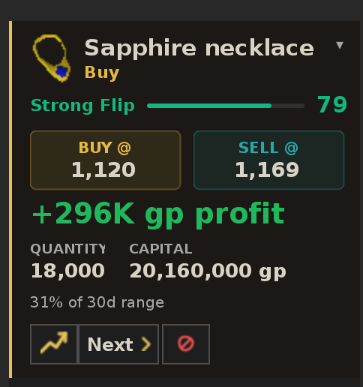
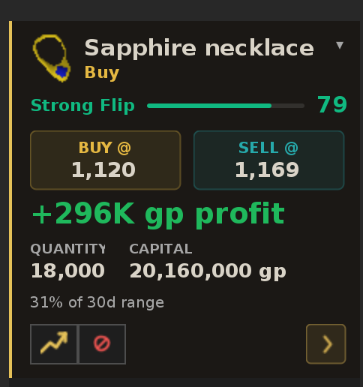
Wear the website's pager on the flip card
The site's Recommended Flip card settled on a pair of small gold-tinted
chevron squares riding the right edge of its bottom row, and it is the
best that card has looked. Ported rather than approximated: .fc-page's
literal values — #C9A64D for the glyph and the rim, the same hue at 12%
behind it, 26% and a brighter glyph under the cursor, 6px corners, a
24px target.

Painted rather than bordered, because Swing's border is square and the
corner radius is most of what makes these read as the site's. The fill
stays translucent so the card's own hover tint shows through instead of
the button punching a flat hole in it.

Next loses its word. It carried one on the argument that the control
you press most should be the easiest to hit, and the website answered
that better: a PAIR of chevrons reads as a pager at a glance, where one
worded button beside one bare arrow reads as two unrelated controls.
The pair is also narrower than the single worded button was.

And the pager moves to the far right of the row, behind a spacer, as it
is on the site — everything left of the gap acts on the item in front
of you, the two chevrons move you off it. That grouping is most of what
makes two arrows read as one control rather than as two more buttons in
a line of five.

The chevrons are drawn, not set as text: the site's ‹ and › are
U+2039/U+203A, and U+203A has already rendered as a stray comma in this
client once. They grew from 7x13 to 9x13 to suit the bigger tile.
[…]

Changed region(s): [[0.2424, 0.8372, 0.5758, 0.9612], [0.8182, 0.8372, 0.9697, 0.9612]]

diff --git a/src/main/java/com/pocketge/tracker/AdvisorPanel.java b/src/main/java/com/pocketge/tracker/AdvisorPanel.java
@@ -107,13 +107,27 @@ public class AdvisorPanel extends PluginPanel
 	private static final int CONTROL_W = 32;
 	private static final int CONTROL_H = 27;
 	/* Sized so the widest row fits the 194px a card has inside a 225px
-	   sidebar: four plain controls and a worded Next, with four gaps —
-	   4 × 32 + 54 + 4 × 2 = 190. */
+	   sidebar: three plain controls, two pager squares, four gaps —
+	   3 × 32 + 2 × 27 + 4 × 2 = 158. */
 	private static final int CONTROL_GAP = 2;
-	private static final int NEXT_BTN_W = 54;
+	/**
+	 * pocketge.com's .fc-page, ported exactly.
+	 *
+	 * The site's flip card ended up with a pair of small gold-tinted chevron
+	 * squares for paging, and it is the best that card has looked — so these
+	 * are its literal values rather than an impression of them: #C9A64D for
+	 * the glyph and the border, the same hue at 12% behind it, 26% and a
+	 * brighter glyph under the cursor, 6px corners, a 24px target.
+	 */
+	private static final Color PAGER_FG = new Color(0xC9, 0xA6, 0x4D);
+	private static final Color PAGER_FG_HOVER = new Color(0xFF, 0xD9, 0x8A);
+	private static final int PAGER_FILL_ALPHA = 31;        // .12
+	private static final int PAGER_FILL_ALPHA_HOVER = 66;  // .26
+	private static final int PAGER_RIM_ALPHA = 115;        // .45
+	private static final int PAGER_RADIUS = 6;
 	private static final Icon CHART_ICON = buildChartIcon(1.45f);
-	private static final Icon NEXT_ICON = buildNextIcon();
-	private static final Icon BACK_ICON = buildBackIcon();
+	/* No NEXT_ICON/BACK_ICON constants: a pager square needs its chevron in
+	   two colours, so each button builds its own pair — see pagerButton. */
 	private static final Icon PAUSE_ICON = buildPauseIcon();
 	private static final Icon HOLD_ICON = buildHoldIcon();
 	private static final Icon BLOCK_ICON = buildBlockIcon();
@@ -1122,16 +1136,6 @@ public class AdvisorPanel extends PluginPanel
 			e -> setSelectedItem(null));
 
 		JPanel controls = controlsRow();
-		// Next comes first here for the same reason it does on a flip: it is
-		// the way out of this card and back into the stream.
-		if (!recommendations.isEmpty())
-		{
-			if (canGoBack())
-			{
-				addControl(controls, backButton());
-			}
-			addControl(controls, nextButton());
-		}
 		/* Share has moved to the pinned top bar. It was the least-pressed
 		   control sitting in the most-pressed row, taking width from Next,
 		   hold and block on a 225px sidebar — and it never needed to be
@@ -1142,6 +1146,16 @@ public class AdvisorPanel extends PluginPanel
 			e -> actions.toggleFavorite(r.id, r.name)));
 		addControl(controls, bigIconBtn(BLOCK_ICON, "Never recommend " + r.name + " again",
 			e -> { if (confirmBlock(r.name)) { actions.block(r.name); } }));
+		// The pager rides the right edge, as it does on the website.
+		if (!recommendations.isEmpty())
+		{
+			addSpacer(controls);
+			if (canGoBack())
+			{
+				addControl(controls, backButton());
+			}
+			addControl(controls, nextButton());
+		}
 		c.controls = controls;
 		/* No "From your watchlist" footnote: you got here by clicking your
 		   watchlist, so it only ever told you something you had just done. */
@@ -1256,14 +1270,15 @@ public class AdvisorPanel extends PluginPanel
 		   close the screen first. Before this the takeover was a one-way
 		   door for as long as the screen stayed up. No Back beside it: this
 		   card is not a place in the stream, so there is nothing to go back
-		   from, and five buttons do not fit a 194px row. */
-		addControl(controls, nextButton());
+		   from. */
 		final boolean fav = favoriteIds.contains(itemId);
 		addControl(controls, bigIconBtn(fav ? STAR_FILLED_ICON : STAR_HOLLOW_ICON,
 			fav ? "Remove " + name + " from favorites" : "Add " + name + " to favorites",
 			e -> actions.toggleFavorite(itemId, name)));
 		addControl(controls, bigIconBtn(BLOCK_ICON, "Never recommend " + name + " again",
 			e -> { if (confirmBlock(name)) { actions.block(name); } }));
+		addSpacer(controls);
+		addControl(controls, nextButton());
 		c.controls = controls;
 		shownCard = c;
 		return buildCard(c);
@@ -1817,11 +1832,6 @@ public class AdvisorPanel extends PluginPanel
 		   batch once it walks off the end, so on a one-suggestion list it is
 		   the button that GETS you more \u2014 exactly when hiding it left you
 		   with no way forward at all. */
-		if (canGoBack())
-		{
-			addControl(controls, backButton());
-		}
-		addControl(controls, nextButton());
 		/* Pause is in the pinned top bar now — see pauseButton(). It was the
 		   odd one out here: Next, Hold and Block all act on THIS item, while
 		   pause acts on the advisor. */
@@ -1835,6 +1845,17 @@ public class AdvisorPanel extends PluginPanel
 		}
 		addControl(controls, bigIconBtn(BLOCK_ICON, "Never recommend " + r.name + " again",
 			e -> { if (confirmBlock(r.name)) { actions.block(r.name); } }));
+		/* The pager last and hard right, the way the website's card carries
+		   it: everything left of the gap acts on THIS item, the two chevrons
+		   move you off it. Next is drawn even on a one-suggestion list,
+		   because it is what asks for a fresh batch once it walks off the
+		   end -- exactly when hiding it would leave no way forward at all. */
+		addSpacer(controls);
+		if (canGoBack())
+		{
+			addControl(controls, backButton());
+		}
+		addControl(controls, nextButton());
 		c.controls = controls;
 
 		/* No "3 of 20". The count was never something to act on, it cost a
@@ -1879,6 +1900,21 @@ public class AdvisorPanel extends PluginPanel
 	 *  explicit alignmentY keeps every child on one baseline — a default
 	 *  Box.Filler and a JButton disagree otherwise, and an X_AXIS BoxLayout
 	 *  resolves that disagreement by making the row taller. */
+	/**
+	 * Pushes whatever is added next to the right-hand end of the row.
+	 *
+	 * The website's card puts its pager on the far edge of the bottom row,
+	 * clear of everything that acts on the item — which is most of what
+	 * makes two chevrons read as ONE pager rather than as two more buttons
+	 * in a line of five. Copied here for the same reason.
+	 */
+	private static void addSpacer(JPanel row)
+	{
+		final Box.Filler glue = (Box.Filler) Box.createHorizontalGlue();
+		glue.setAlignmentY(0.5f);
+		row.add(glue);
+	}
+
 	private static void addControl(JPanel row, JButton b)
 	{
 		if (row.getComponentCount() > 0)
@@ -1954,7 +1990,7 @@ public class AdvisorPanel extends PluginPanel
 	 */
 	private JButton backButton()
 	{
-		final JButton back = bigIconBtn(BACK_ICON, "Back to the previous suggestion", e ->
+		final JButton back = pagerButton(true, "Back to the previous suggestion", e ->
 		{
 			while (!recTrail.isEmpty())
 			{
@@ -1975,18 +2011,12 @@ public class AdvisorPanel extends PluginPanel
 			}
 			renderRecommendation(); // trail emptied out; redraw without the button
 		});
-		/* Icon only, at the plain control width. It wore the word "Back" at
-		   62px like Next, and a sell card with the trail behind it — chart,
-		   Back, Next, Hold, Block — came to 232px against a 194px row, so
-		   the last button was drawn half off the card. Next keeps its word
-		   because it is the one you press over and over; Back is the mirror
-		   of it, sitting beside it, and the chevron says which way. */
 		return back;
 	}
 
 	private JButton nextButton()
 	{
-		final JButton next = bigIconBtn(NEXT_ICON,
+		final JButton next = pagerButton(false,
 			geContextItemId != null || selectedFavorite != null
 				? "Back to flips — show the next suggestion"
 				: "Next suggestion", e ->
@@ -2024,15 +2054,66 @@ public class AdvisorPanel extends PluginPanel
 			}
 			renderRecommendation();
 		});
-		// Wider than the rest: this is the control you press most, and at
-		// icon-size it was the hardest one to hit.
-		next.setText("Next");
-		next.setForeground(TEXT_MAIN);
-		next.setFont(next.getFont().deriveFont(Font.BOLD, 12f));
-		next.setHorizontalTextPosition(SwingConstants.LEFT);
-		next.setIconTextGap(4);
-		sizeExactly(next, NEXT_BTN_W, CONTROL_H);
+		/* No word on it any more.
+		   It carried "Next" on the argument that the control you press most
+		   should be the easiest to hit. The website's card answered that
+		   differently and better: a PAIR of chevron squares reads as a pager
+		   at a glance, where one worded button and one bare arrow read as two
+		   unrelated controls. The pair is also narrower than the single
+		   worded button was, which is where the room for the rest of the row
+		   came from. */
 		return next;
+	}
+
+	/**
+	 * Dresses a control as one of the site's pager squares: a rounded
+	 * gold-tinted tile that brightens under the cursor.
+	 *
+	 * Painted rather than bordered because Swing's border is square and the
+	 * corner radius is most of what makes these read as the site's. The fill
+	 * is translucent, so the card's own hover tint still shows through it
+	 * rather than the button punching a flat hole in the card.
+	 */
+	private static JButton asPager(JButton b)
+	{
+		b.setContentAreaFilled(false);
+		b.setBorderPainted(false);
+		b.setOpaque(false);
+		b.setFocusPainted(false);
+		b.setText(null);
+		b.setRolloverEnabled(true);
+		sizeExactly(b, CONTROL_H, CONTROL_H);
+		b.setCursor(Cursor.getPredefinedCursor(Cursor.HAND_CURSOR));
+		return b;
+	}
+
+	/** A pager square carrying {@code glyph}, which is swapped for its
+	 *  brighter self while the cursor is on it. */
+	private JButton pagerButton(boolean back, String tip, java.awt.event.ActionListener a)
+	{
+		final JButton b = new JButton(buildChevron(back, PAGER_FG))
+		{
+			@Override
+			protected void paintComponent(Graphics g)
+			{
+				final Graphics2D g2 = (Graphics2D) g.create();
+				g2.setRenderingHint(RenderingHints.KEY_ANTIALIASING, RenderingHints.VALUE_ANTIALIAS_ON);
+				final boolean hot = getModel().isRollover() || getModel().isPressed();
+				g2.setColor(new Color(PAGER_FG.getRed(), PAGER_FG.getGreen(), PAGER_FG.getBlue(),
+					hot ? PAGER_FILL_ALPHA_HOVER : PAGER_FILL_ALPHA));
+				g2.fillRoundRect(0, 0, getWidth() - 1, getHeight() - 1, PAGER_RADIUS, PAGER_RADIUS);
+				g2.setColor(hot ? PAGER_FG
+					: new Color(PAGER_FG.getRed(), PAGER_FG.getGreen(), PAGER_FG.getBlue(), PAGER_RIM_ALPHA));
+				g2.drawRoundRect(0, 0, getWidth() - 1, getHeight() - 1, PAGER_RADIUS, PAGER_RADIUS);
+				g2.dispose();
+				super.paintComponent(g);
+			}
+		};
+		b.setRolloverIcon(buildChevron(back, PAGER_FG_HOVER));
+		b.setPressedIcon(buildChevron(back, PAGER_FG_HOVER));
+		b.setToolTipText(tip);
+		b.addActionListener(a);
+		return asPager(b);
 	}
 
 	/** Everything one card can show.
@@ -3218,28 +3299,28 @@ public class AdvisorPanel extends PluginPanel
 	 *  the chart and share icons are drawn to avoid. */
 	/** The Next chevron, mirrored. Drawn rather than flipped at paint time so
 	 *  the two are pixel-identical apart from direction. */
-	private static Icon buildBackIcon()
+	/**
+	 * One chevron, pointing either way, in whatever colour the state wants.
+	 *
+	 * Drawn rather than set as text for the reason the whole icon set is
+	 * drawn: the ‹ and › the website uses are U+2039/U+203A, and U+203A
+	 * already rendered as a stray comma in this client once. A glyph is a
+	 * request that the JRE find a font containing it; a polyline is not.
+	 *
+	 * 9x13 rather than the 7x10 these were, because the button around them
+	 * grew to match the site's 24px target and a chevron that small inside
+	 * it read as a speck.
+	 */
+	private static Icon buildChevron(boolean back, Color fg)
 	{
-		final int w = 7, h = 10;
+		final int w = 9, h = 13;
 		final BufferedImage img = new BufferedImage(w, h, BufferedImage.TYPE_INT_ARGB);
 		final Graphics2D g = img.createGraphics();
 		g.setRenderingHint(RenderingHints.KEY_ANTIALIASING, RenderingHints.VALUE_ANTIALIAS_ON);
-		g.setColor(GOLD);
-		g.setStroke(new BasicStroke(1.7f, BasicStroke.CAP_ROUND, BasicStroke.JOIN_ROUND));
-		g.drawPolyline(new int[]{5, 1, 5}, new int[]{1, h / 2, h - 1}, 3);
-		g.dispose();
-		return new ImageIcon(img);
-	}
-
-	private static Icon buildNextIcon()
-	{
-		final int w = 7, h = 10;
-		final BufferedImage img = new BufferedImage(w, h, BufferedImage.TYPE_INT_ARGB);
-		final Graphics2D g = img.createGraphics();
-		g.setRenderingHint(RenderingHints.KEY_ANTIALIASING, RenderingHints.VALUE_ANTIALIAS_ON);
-		g.setColor(GOLD);
-		g.setStroke(new BasicStroke(1.7f, BasicStroke.CAP_ROUND, BasicStroke.JOIN_ROUND));
-		g.drawPolyline(new int[]{1, 5, 1}, new int[]{1, h / 2, h - 1}, 3);
+		g.setColor(fg);
+		g.setStroke(new BasicStroke(1.9f, BasicStroke.CAP_ROUND, BasicStroke.JOIN_ROUND));
+		final int[] xs = back ? new int[]{6, 2, 6} : new int[]{2, 6, 2};
+		g.drawPolyline(xs, new int[]{1, h / 2, h - 2}, 3);
 		g.dispose();
 		return new ImageIcon(img);
 	}

diff --git a/README.md b/README.md
@@ -77,10 +77,12 @@ stack in your bank or inventory on a sell, or round the Buy button of a free
 Exchange slot on a buy. One ring, one place to click. When a sell would take a
 loss it says so, in words, next to the red figure.
 
-**Next** pages through the queue; **Back** returns to one you passed, if it's
-still on offer. **Hold** parks an idea for the session, **Block** kills it for
-good (with an editable never-recommend list in settings), and the **star**
-watchlists it.
+**A pair of chevrons** on the right pages the queue — forward for the next
+idea, back to one you passed if it's still on offer. They sit apart from the
+rest, in pocketge.com's own pager style: everything left of the gap acts on the
+item in front of you, the chevrons move you off it. **Hold** parks an idea for
+the session, **Block** kills it for good (with an editable never-recommend list
+in settings), and the **star** watchlists it.
 
 When you already hold something worth selling, it says so — and when the
 plugin watched you buy it, it shows the real P&L against what you paid rather
